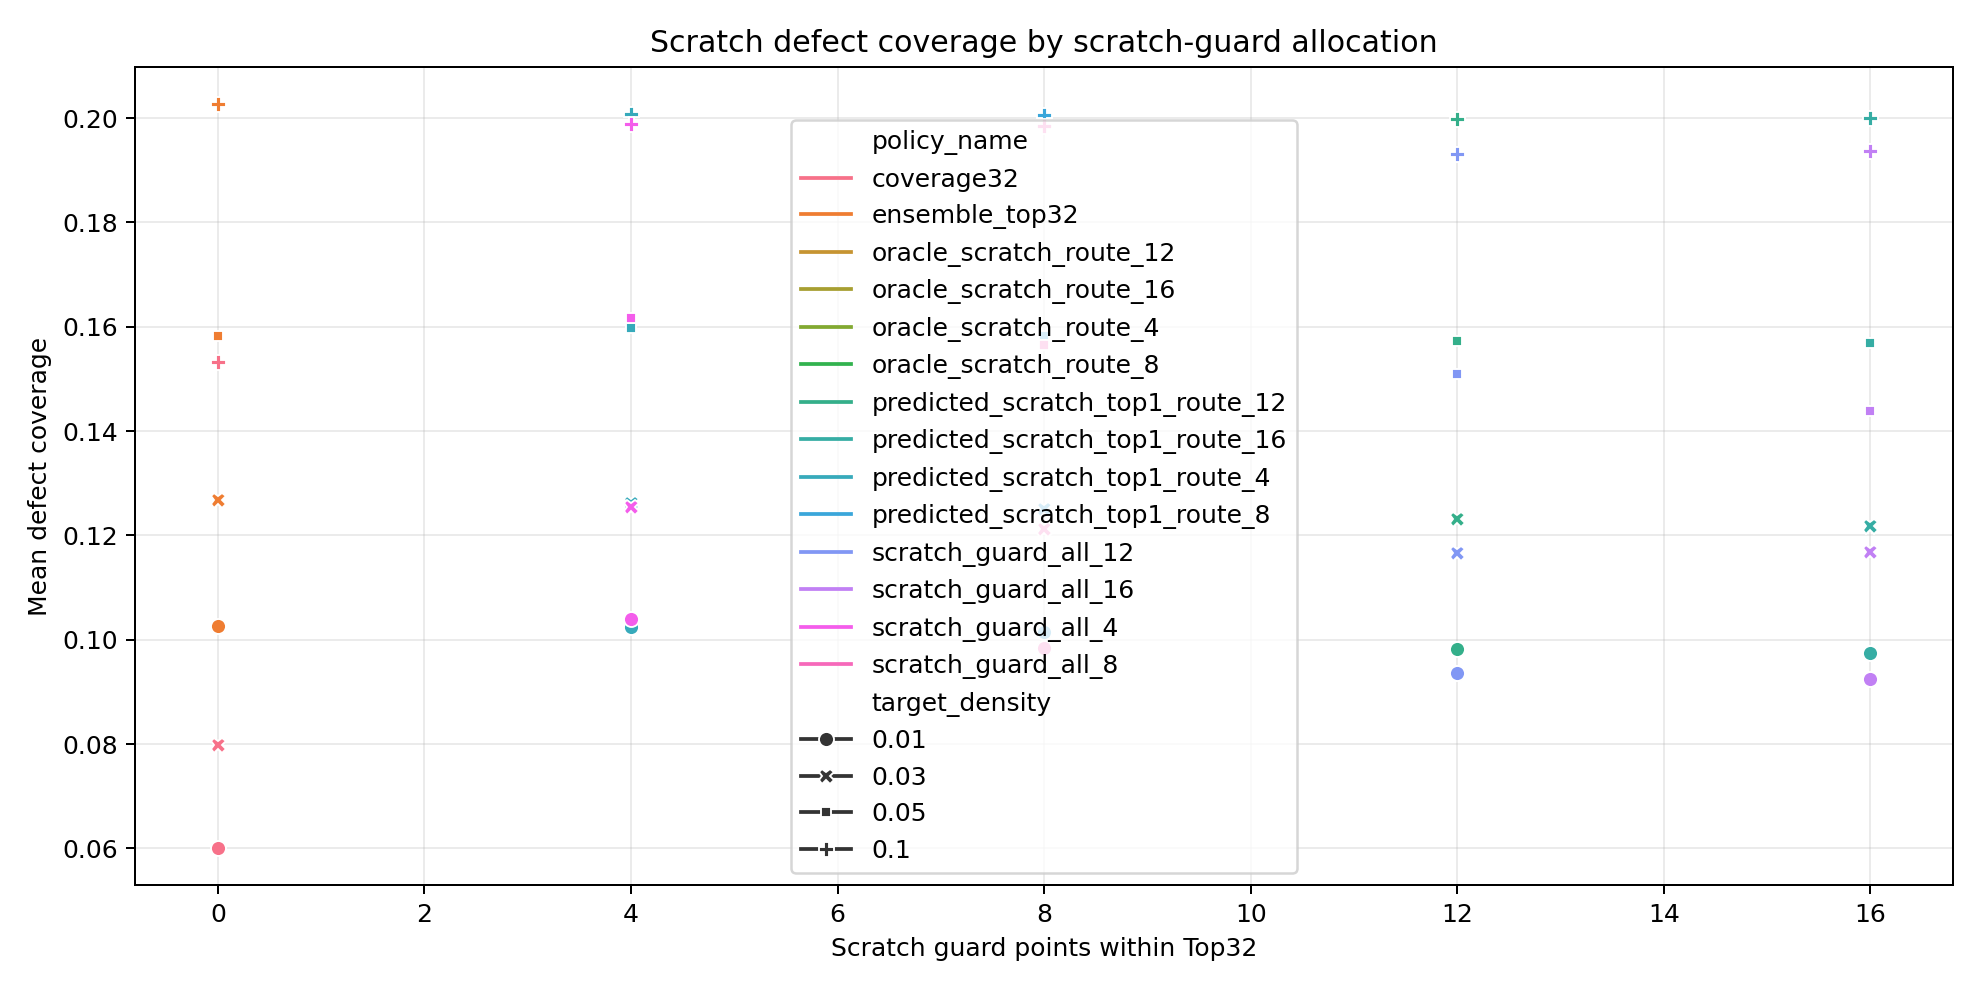
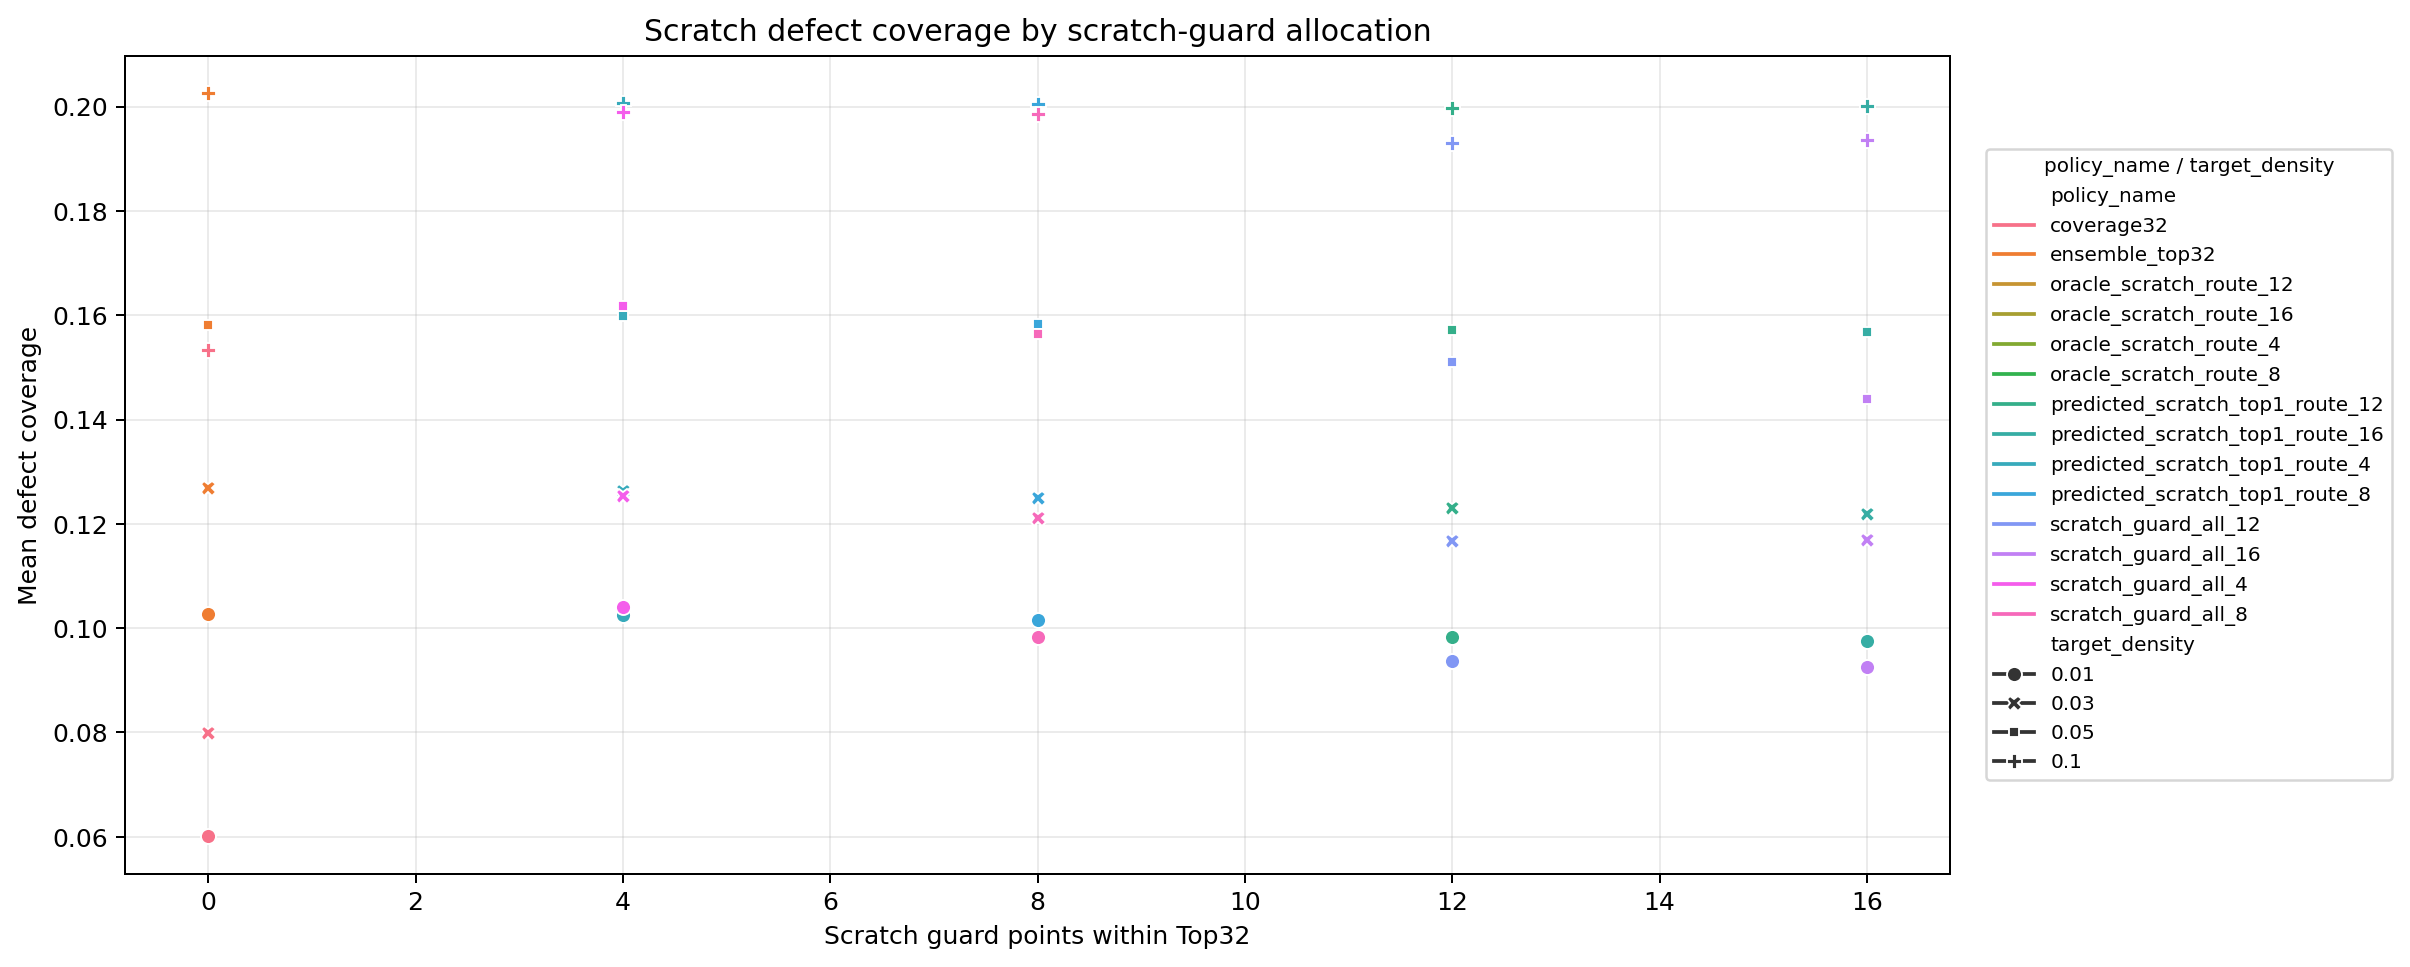
Move scratch guard legend outside plot

diff --git a/scripts/78_evaluate_scratch_guard_policy.py b/scripts/78_evaluate_scratch_guard_policy.py
@@ -380,7 +380,7 @@ def plot_outputs(summary: pd.DataFrame, pattern: pd.DataFrame, fig_dir: Path) ->
     fig_dir.mkdir(parents=True, exist_ok=True)
     scratch = pattern[pattern["failureType"] == "Scratch"].copy()
     if not scratch.empty:
-        plt.figure(figsize=(11, 5.5))
+        plt.figure(figsize=(13.5, 5.5))
         sns.lineplot(
             data=scratch,
             x="guard_count",
@@ -394,8 +394,16 @@ def plot_outputs(summary: pd.DataFrame, pattern: pd.DataFrame, fig_dir: Path) ->
         plt.xlabel("Scratch guard points within Top32")
         plt.ylabel("Mean defect coverage")
         plt.grid(alpha=0.25)
+        plt.legend(
+            title="policy_name / target_density",
+            loc="center left",
+            bbox_to_anchor=(1.02, 0.5),
+            borderaxespad=0.0,
+            fontsize=8,
+            title_fontsize=8,
+        )
         plt.tight_layout()
-        plt.savefig(fig_dir / "scratch_coverage_by_guard_count.png", dpi=180)
+        plt.savefig(fig_dir / "scratch_coverage_by_guard_count.png", dpi=180, bbox_inches="tight")
         plt.close()
 
     focus = summary[summary["policy_name"].isin(["ensemble_top32", "scratch_guard_all_8", "oracle_scratch_route_8", "predicted_scratch_top1_route_8"])].copy()